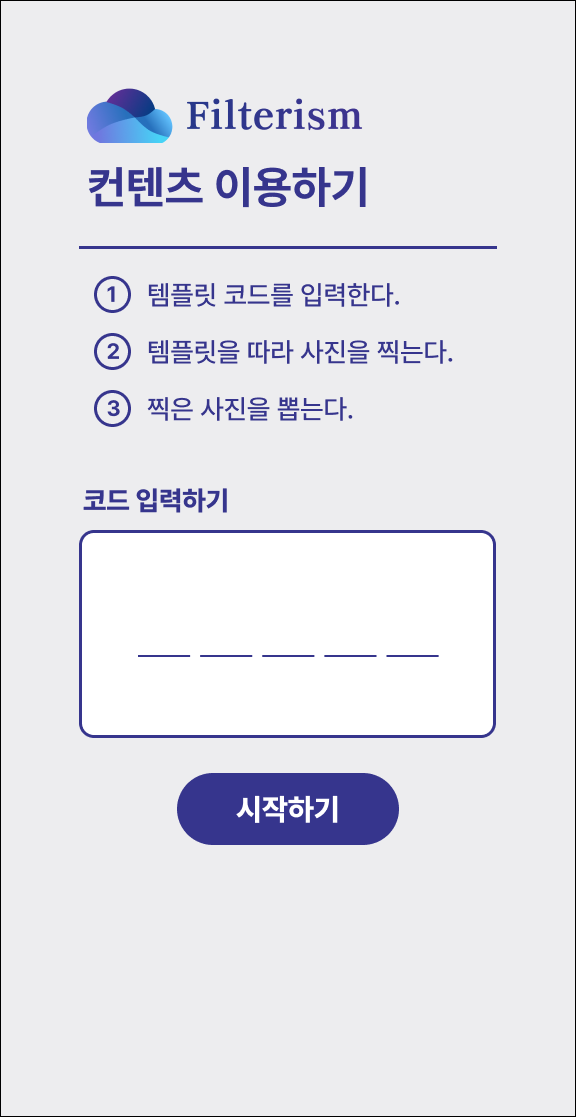
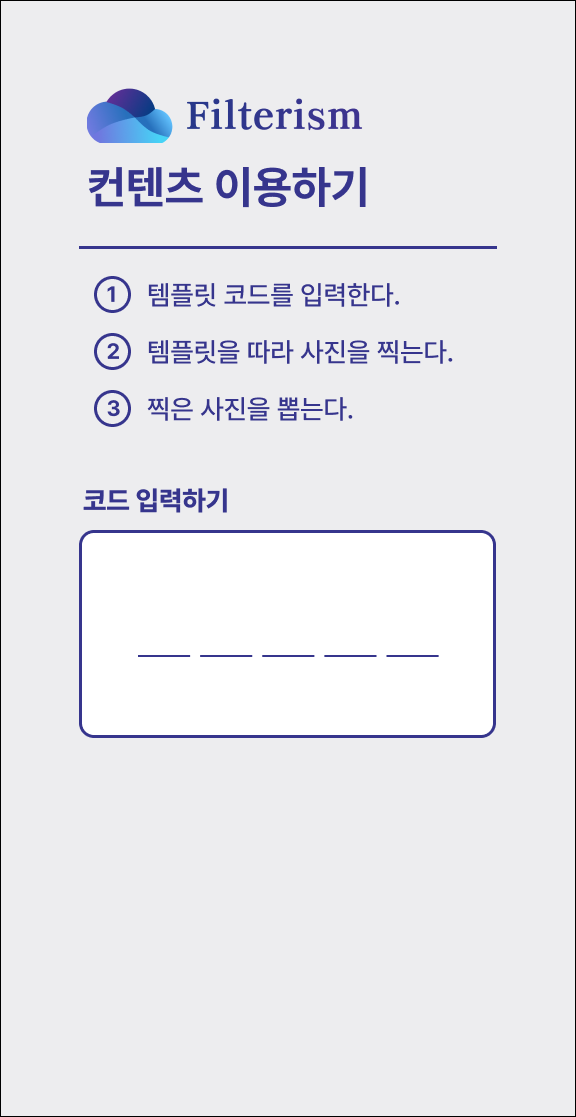
add start button

Changed region(s): [[0.3125, 0.6697, 0.6875, 0.761]]

diff --git a/photobooth/src/components/MainScrean/MainScrean.jsx b/photobooth/src/components/MainScrean/MainScrean.jsx
@@ -23,6 +23,7 @@ const MainScrean = () => {
         <S.Logo src="/assets/imgs/right.png" />
         <S.Title src="/assets/imgs/rightlogo.png" />
         <S.Input type="text" maxlength="5" />
+        <S.Startbutton src="/assets/imgs/startbutton.png" />
       </S.Div>
     </S.Wrapper>
   );

diff --git a/photobooth/src/components/MainScrean/MainScrean.style.js b/photobooth/src/components/MainScrean/MainScrean.style.js
@@ -42,6 +42,12 @@ export const Title = styled.img`
   transform: translateX(-50%);
   left: 50%;
 `;
+export const Startbutton = styled.img`
+  position: absolute;
+  top: 770px;
+  transform: translateX(-50%);
+  left: 50%;
+`;
 
 export const Logo = styled.img`
   width: 100%;
